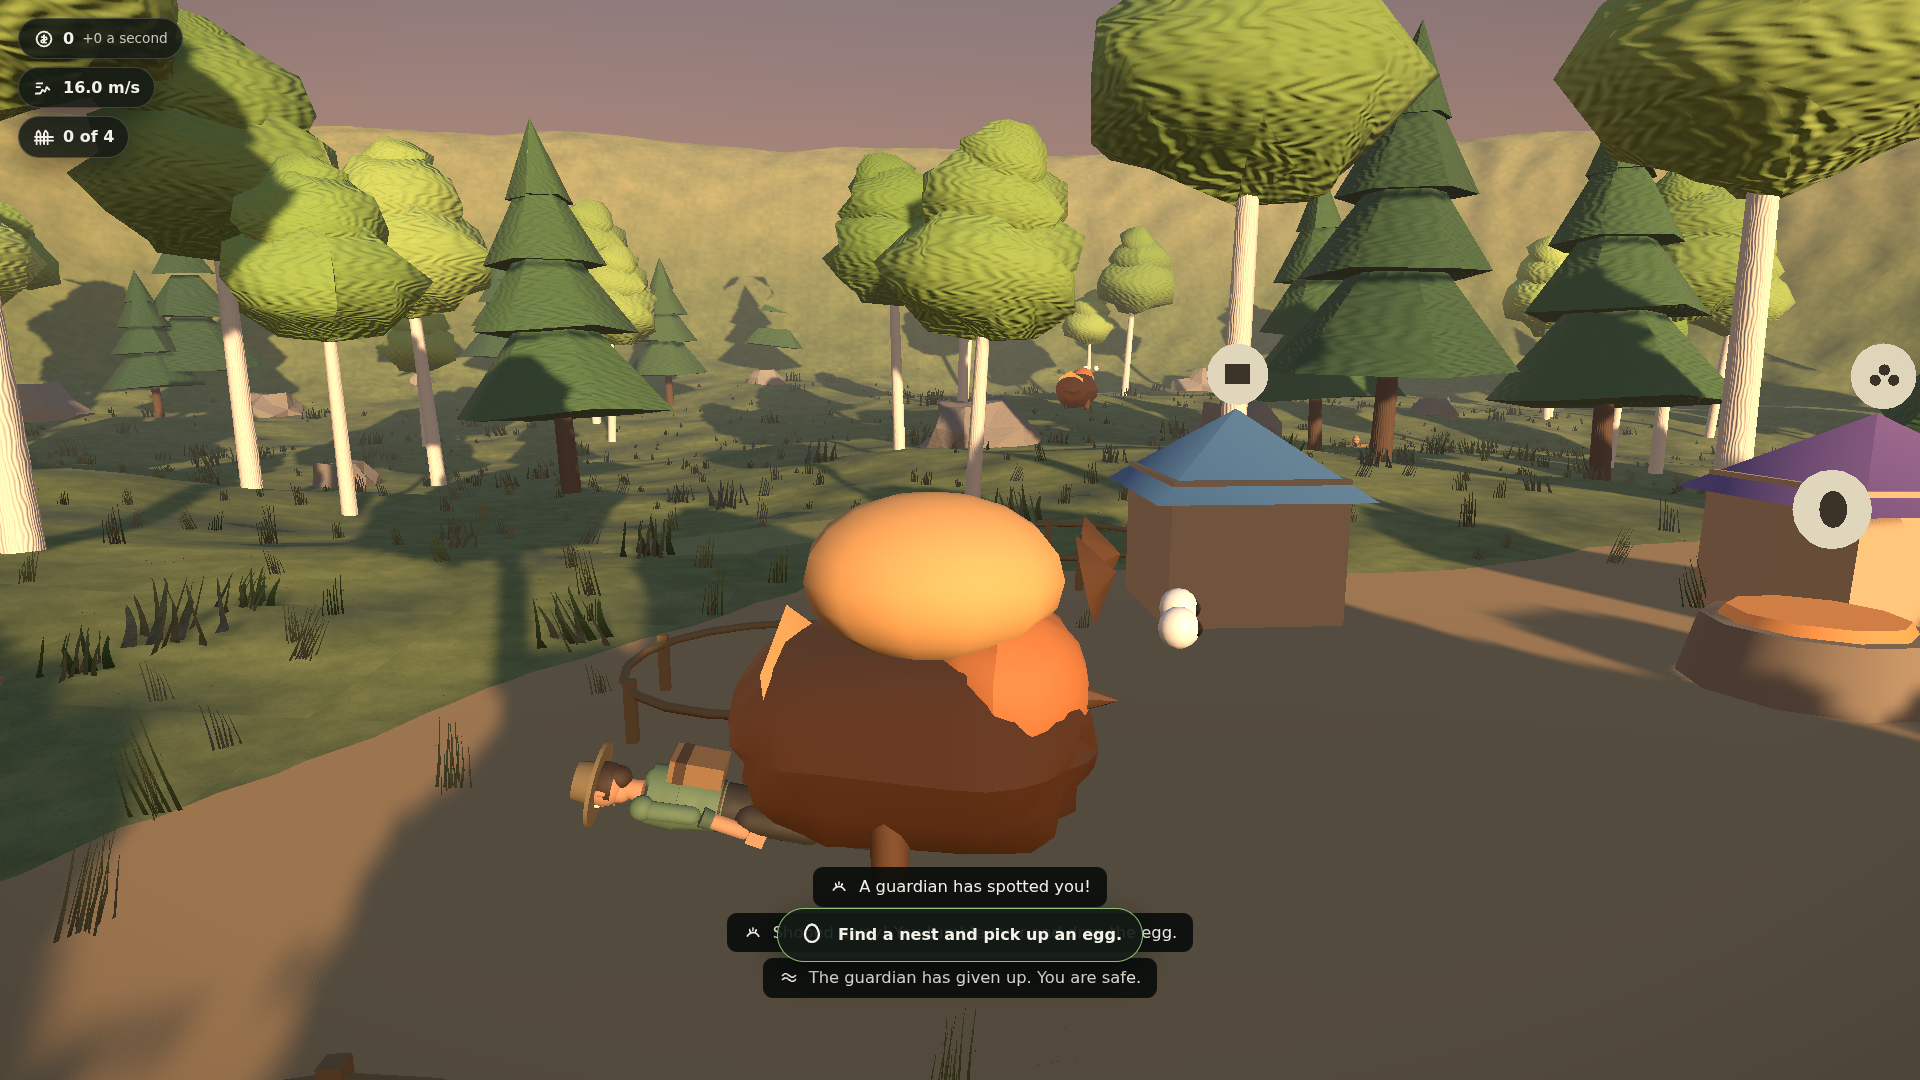
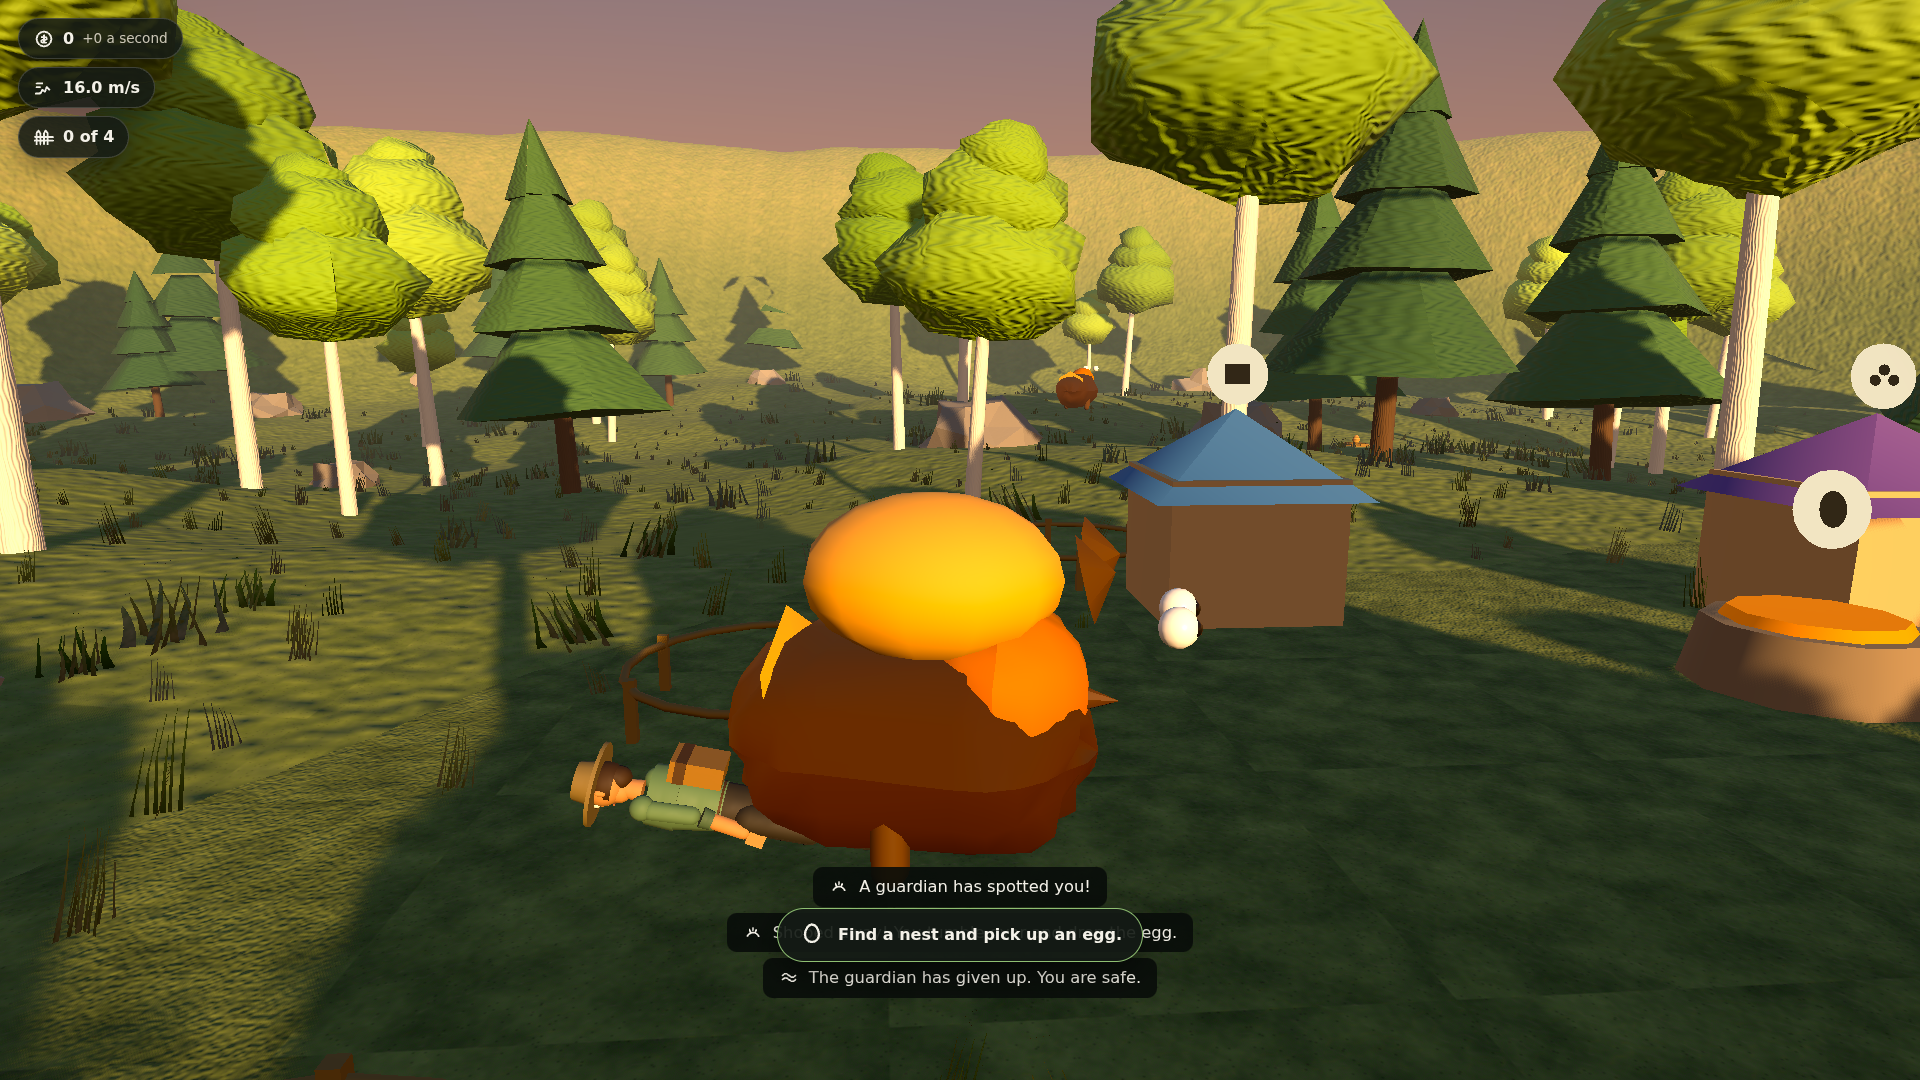
fix(render): the clearing is the soil, not the surface
Colouring the sanctuary clearing from the biome's ground colour fixed the
Dunes seam and broke Whisper Glade: the Glade's ground is green, so the
"trodden earth" came out dark green and vanished into the lawn. The
sanctuary stopped reading as somewhere people are, which is the whole
reason the clearing exists.

A worn path is the ground with the surface rubbed off it, so it should
look like what is under the grass -- the biome's cliffColour. That gives
brown earth beneath the Glade, grey-green beneath Mirrormere, and warm
compacted sand in the Dunes, which is right in all three and avoids both
previous failures.

Screenshots regenerated from the full suite run.

Claude-Session: https://claude.ai/code/session_01S8vggPtgU2EjQxnnYdffEr

diff --git a/src/render/world/Sanctuary.tsx b/src/render/world/Sanctuary.tsx
@@ -35,15 +35,20 @@ function shade(hex: string, factor: number): string {
 export interface SanctuaryProps {
   groundY: number;
   /**
-   * The biome's own soil colours.
+   * The biome's exposed-soil colour -- its `cliffColour`, not its surface.
    *
-   * The clearing is trodden earth, and trodden earth is whatever the ground
-   * around it is made of, compacted. Painted one fixed brown it read as a
-   * patch dropped onto the Dunes' pale sand -- a visible seam on the largest
-   * flat surface in the game.
+   * A trodden clearing is the ground with the surface worn off it, so it
+   * should look like what is *under* the grass. Two wrong answers were tried
+   * first: one fixed brown, which read as a patch pasted onto the Dunes' pale
+   * sand; then the biome's own surface colour darkened, which made Whisper
+   * Glade's clearing dark green and it vanished into the lawn entirely -- the
+   * sanctuary stopped reading as somewhere people are.
+   *
+   * The soil colour gives brown earth under the Glade's grass, grey-green
+   * under Mirrormere's, and warm sand in the Dunes, which is right in all
+   * three.
    */
-  groundLow: string;
-  groundMid: string;
+  soil: string;
   incubator: EggInIncubator | null;
   creatures: readonly OwnedCreature[];
   habitatSlots: number;
@@ -93,8 +98,7 @@ export const STATIONS: readonly Station[] = [
 
 export function Sanctuary({
   groundY,
-  groundLow,
-  groundMid,
+  soil,
   incubator,
   creatures,
   habitatSlots,
@@ -110,9 +114,9 @@ export function Sanctuary({
   const clearingMaterial = useMemo(() => {
     // Darker and a touch less saturated than the surrounding soil: the same
     // earth, walked on.
-    const albedo = groundAlbedo(`sanctuary-${groundLow}`, shade(groundLow, 0.82), groundMid);
+    const albedo = groundAlbedo(`sanctuary-${soil}`, shade(soil, 0.84), shade(soil, 1.1));
     albedo.repeat.set(9, 9);
-    const rough = roughnessMap(`sanctuary-${groundLow}`, 0.94, 0.12);
+    const rough = roughnessMap(`sanctuary-${soil}`, 0.94, 0.12);
     rough.repeat.set(9, 9);
     const normal = microNormal();
     normal.repeat.set(9, 9);
@@ -126,7 +130,7 @@ export function Sanctuary({
     });
     mat.normalScale.set(0.7, 0.7);
     return mat;
-  }, [groundLow, groundMid]);
+  }, [soil]);
 
   useEffect(() => () => clearingMaterial.dispose(), [clearingMaterial]);
 
@@ -163,7 +167,7 @@ export function Sanctuary({
       <mesh rotation={[-Math.PI / 2, 0, 0]} position={[0, 0.015, 0]} receiveShadow>
         <ringGeometry args={[SANCTUARY_RADIUS - 1.4, SANCTUARY_RADIUS + 3.4, 44]} />
         <meshStandardMaterial
-          color={shade(groundMid, 0.94)}
+          color={shade(soil, 1.02)}
           roughness={0.97}
           transparent
           opacity={0.72}

diff --git a/src/render/BiomeRuntime.tsx b/src/render/BiomeRuntime.tsx
@@ -448,8 +448,7 @@ export function BiomeRuntime({
 
       <Sanctuary
         groundY={sanctuaryGround}
-        groundLow={BIOME_DEFS[biome].terrain.groundColourLow}
-        groundMid={BIOME_DEFS[biome].terrain.groundColourMid}
+        soil={BIOME_DEFS[biome].terrain.cliffColour}
         incubator={save.incubator}
         creatures={save.creatures}
         habitatSlots={habitatSlots(save.upgrades)}
